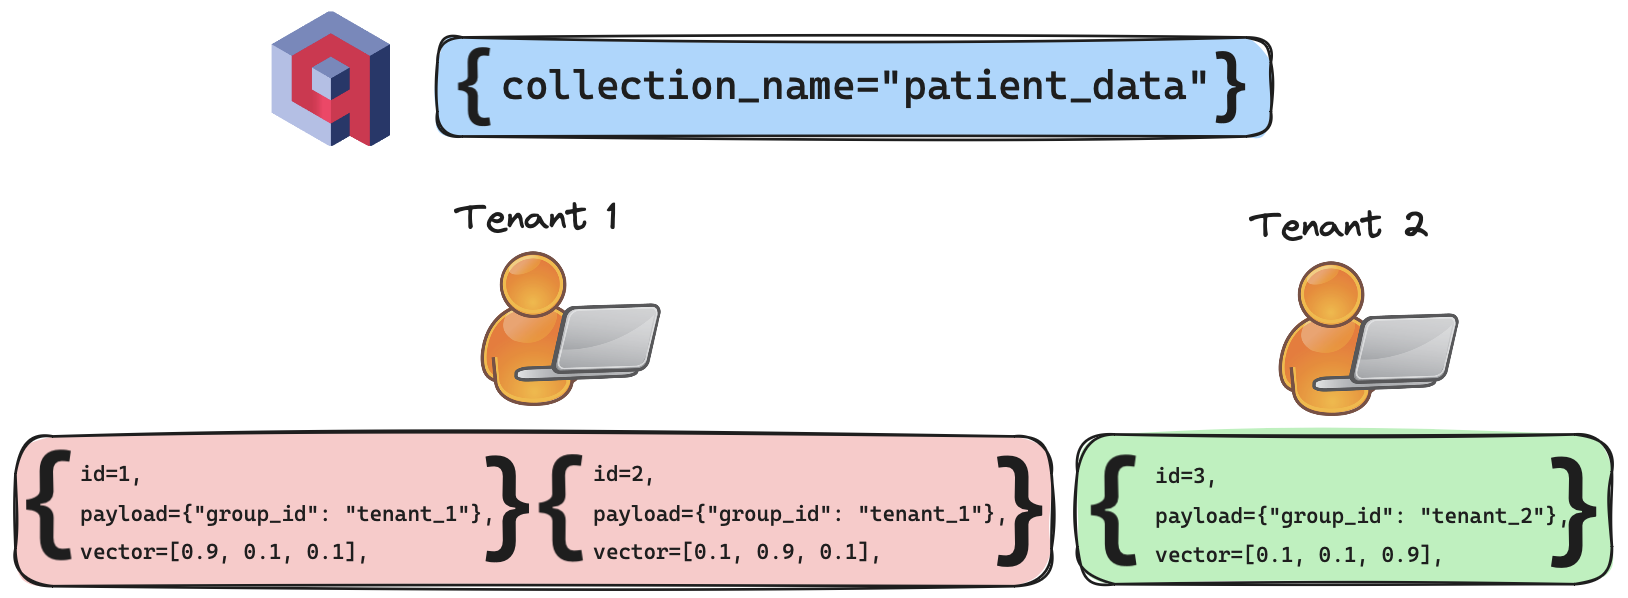
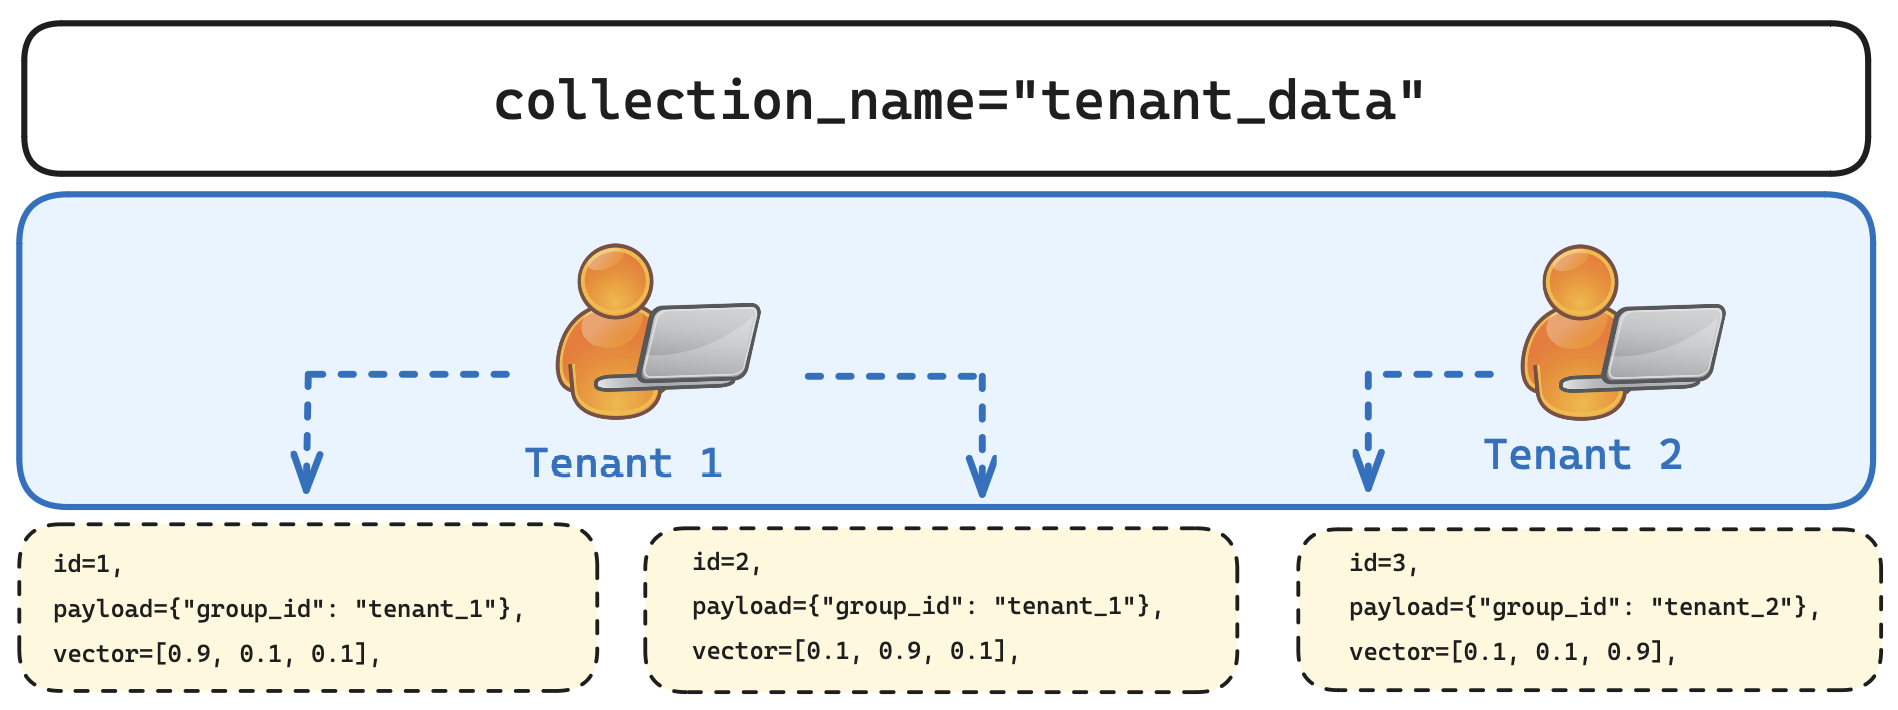
new images for style guide

diff --git a/qdrant-landing/content/articles/multitenancy.md b/qdrant-landing/content/articles/multitenancy.md
@@ -4,7 +4,7 @@ short_description: "Combining our most popular features to support scalable mach
 description: "Combining our most popular features to support scalable machine learning solutions."
 social_preview_image: /articles_data/multitenancy/social_preview.png
 preview_dir: /articles_data/multitenancy/preview
-small_preview_image: /articles_data/multitenancy/scatter-graph.svg
+small_preview_image: /articles_data/multitenancy/icon.svg
 weight: -101
 author: David Myriel
 date: 2024-02-06T13:21:00.000Z
@@ -83,7 +83,7 @@ Additionally, each vector can now be allocated to a shard. You can specify the `
 
 ```python
 client.upsert(
-    collection_name="{collection_name}",
+    collection_name="{tenant_data}",
     points=[
         models.PointStruct(
             id=1,
@@ -103,7 +103,7 @@ Keep in mind that the data for each `group_id` is isolated. In the example below
 
 ```python
 client.upsert(
-    collection_name="{collection_name}",
+    collection_name="{tenant_data}",
     points=[
         models.PointStruct(
             id=3,
@@ -121,7 +121,7 @@ The access control setup is completed as you specify the criteria for data retri
 
 ```python
 client.search(
-    collection_name="{collection_name}",
+    collection_name="{tenant_data}",
     query_filter=models.Filter(
         must=[
             models.FieldCondition(
@@ -154,7 +154,7 @@ from qdrant_client import QdrantClient, models
 client = QdrantClient("localhost", port=6333)
 
 client.create_collection(
-    collection_name="{collection_name}",
+    collection_name="{tenant_data}",
     vectors_config=models.VectorParams(size=768, distance=models.Distance.COSINE),
     hnsw_config=models.HnswConfigDiff(
         payload_m=16,
@@ -167,7 +167,7 @@ client.create_collection(
 
 ```python
 client.create_payload_index(
-    collection_name="{collection_name}",
+    collection_name="{tenant_data}",
     field_name="group_id",
     field_schema=models.PayloadSchemaType.KEYWORD,
 )
